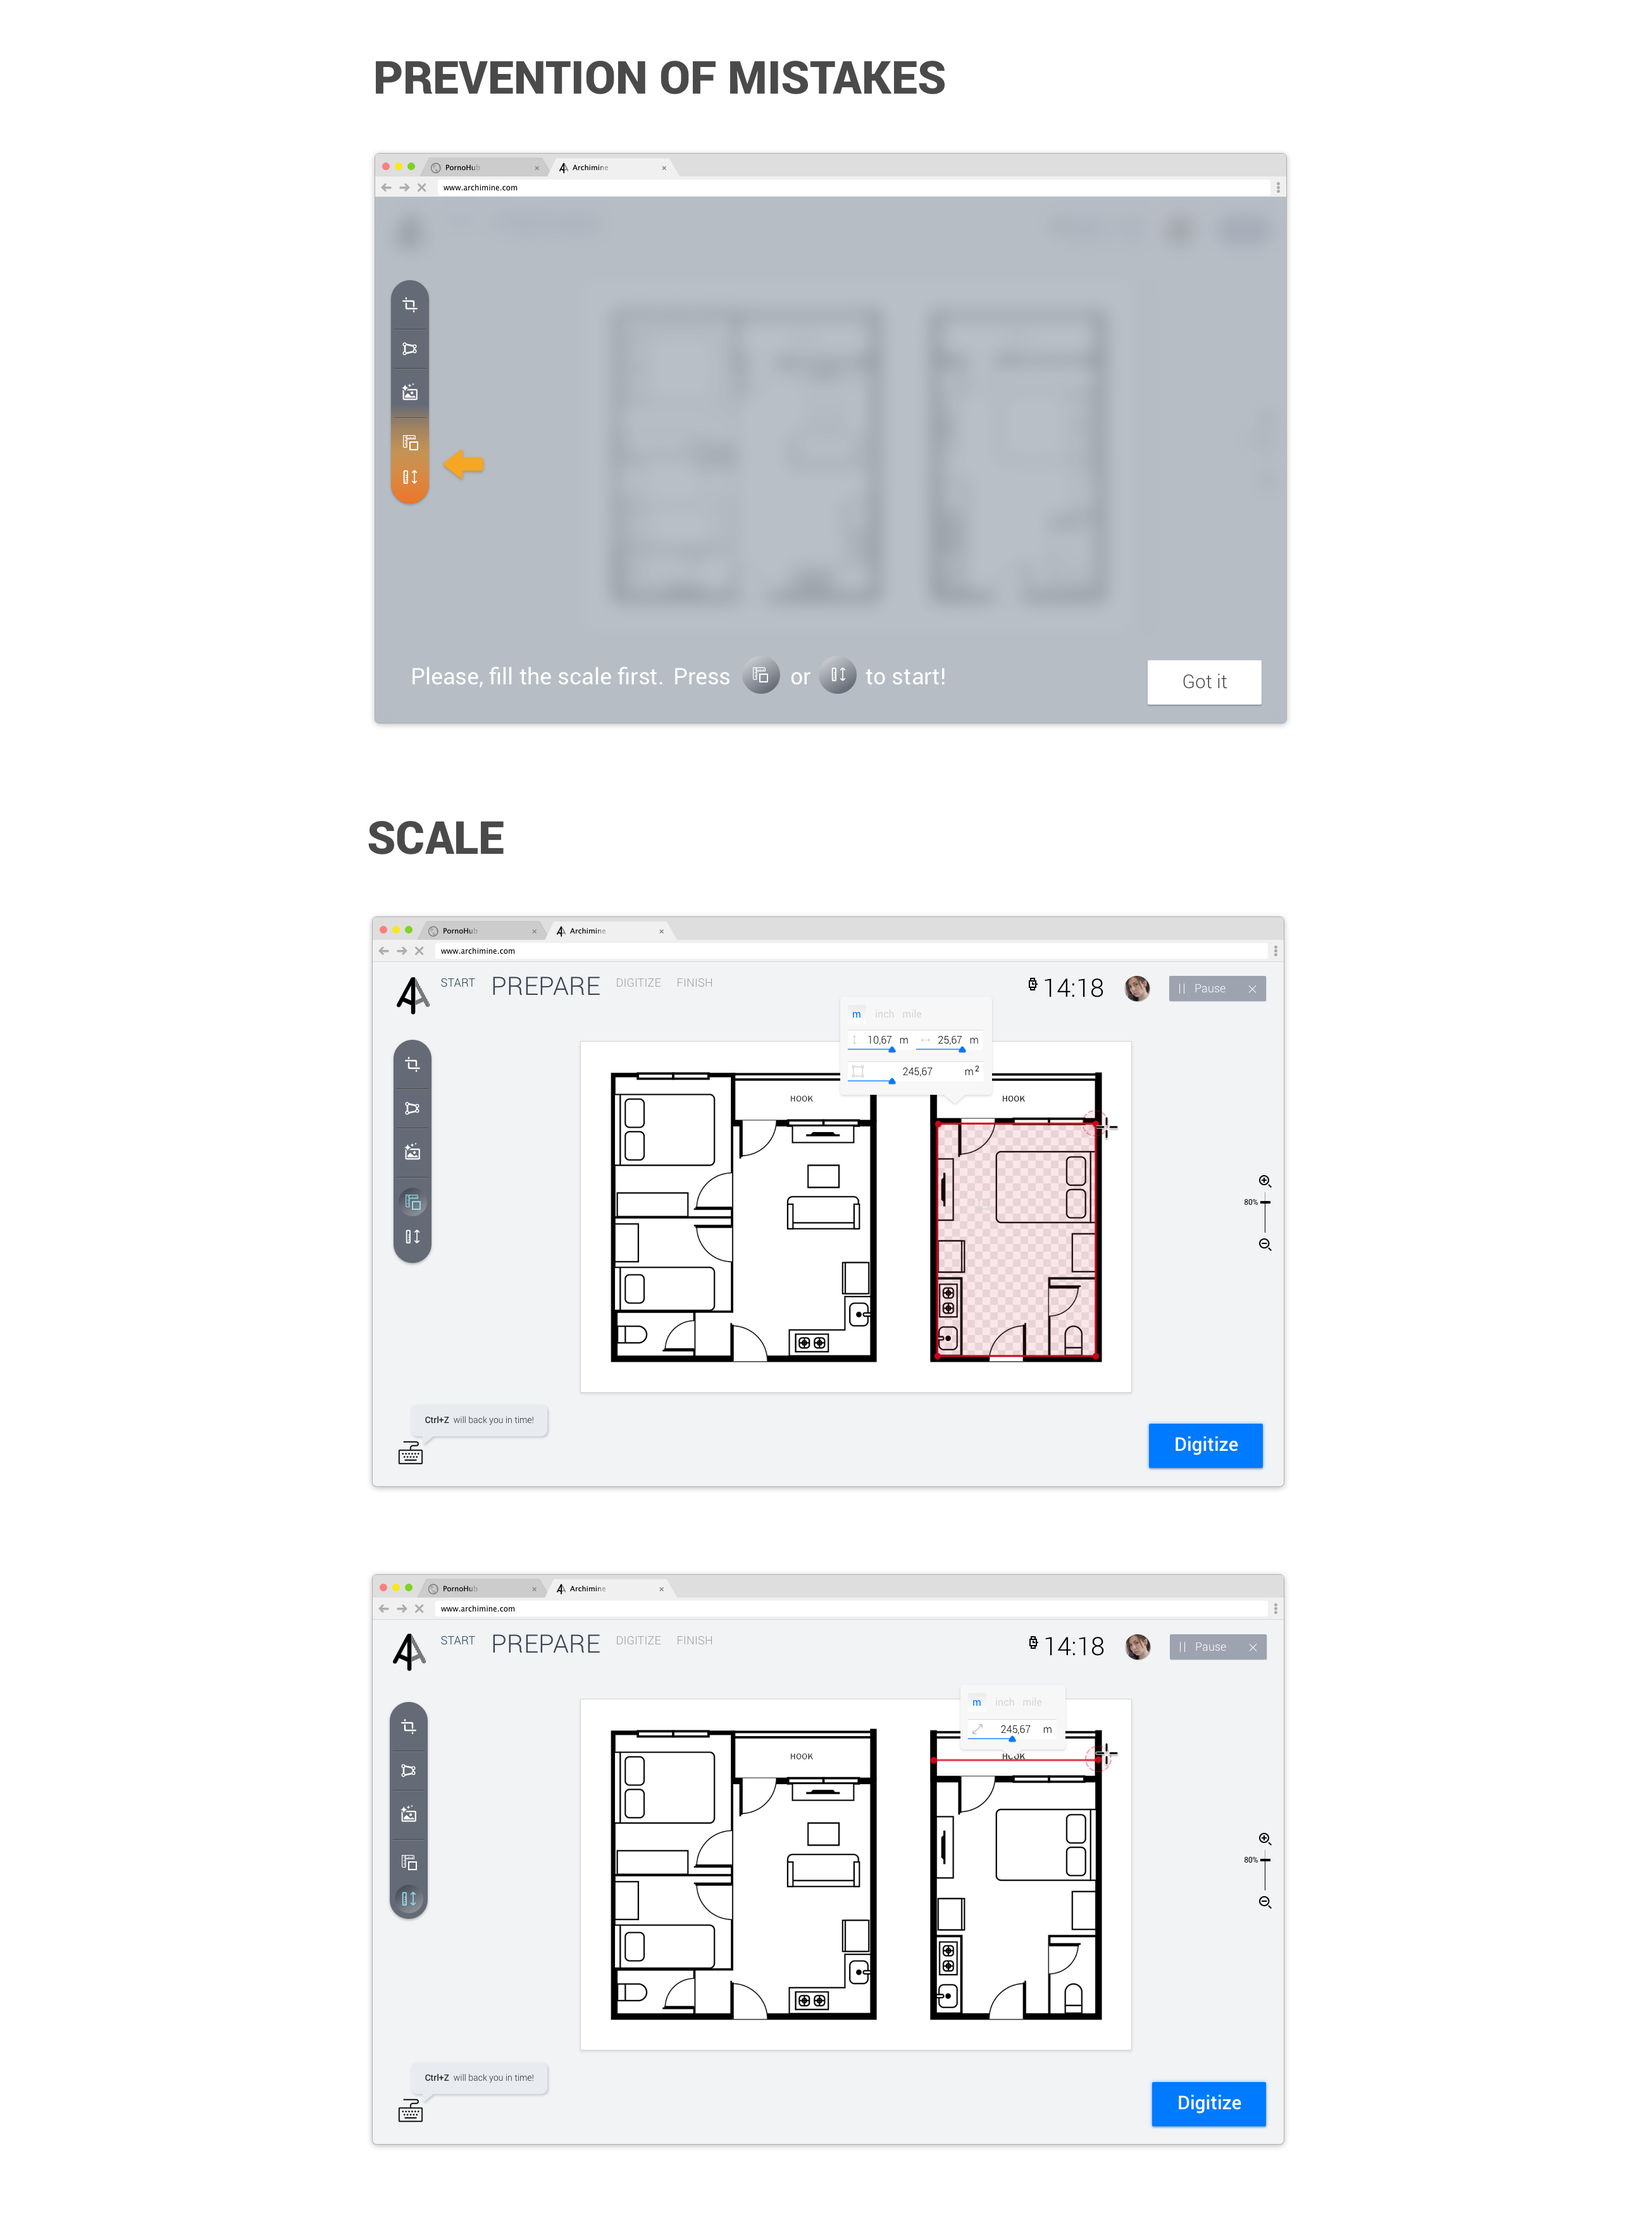
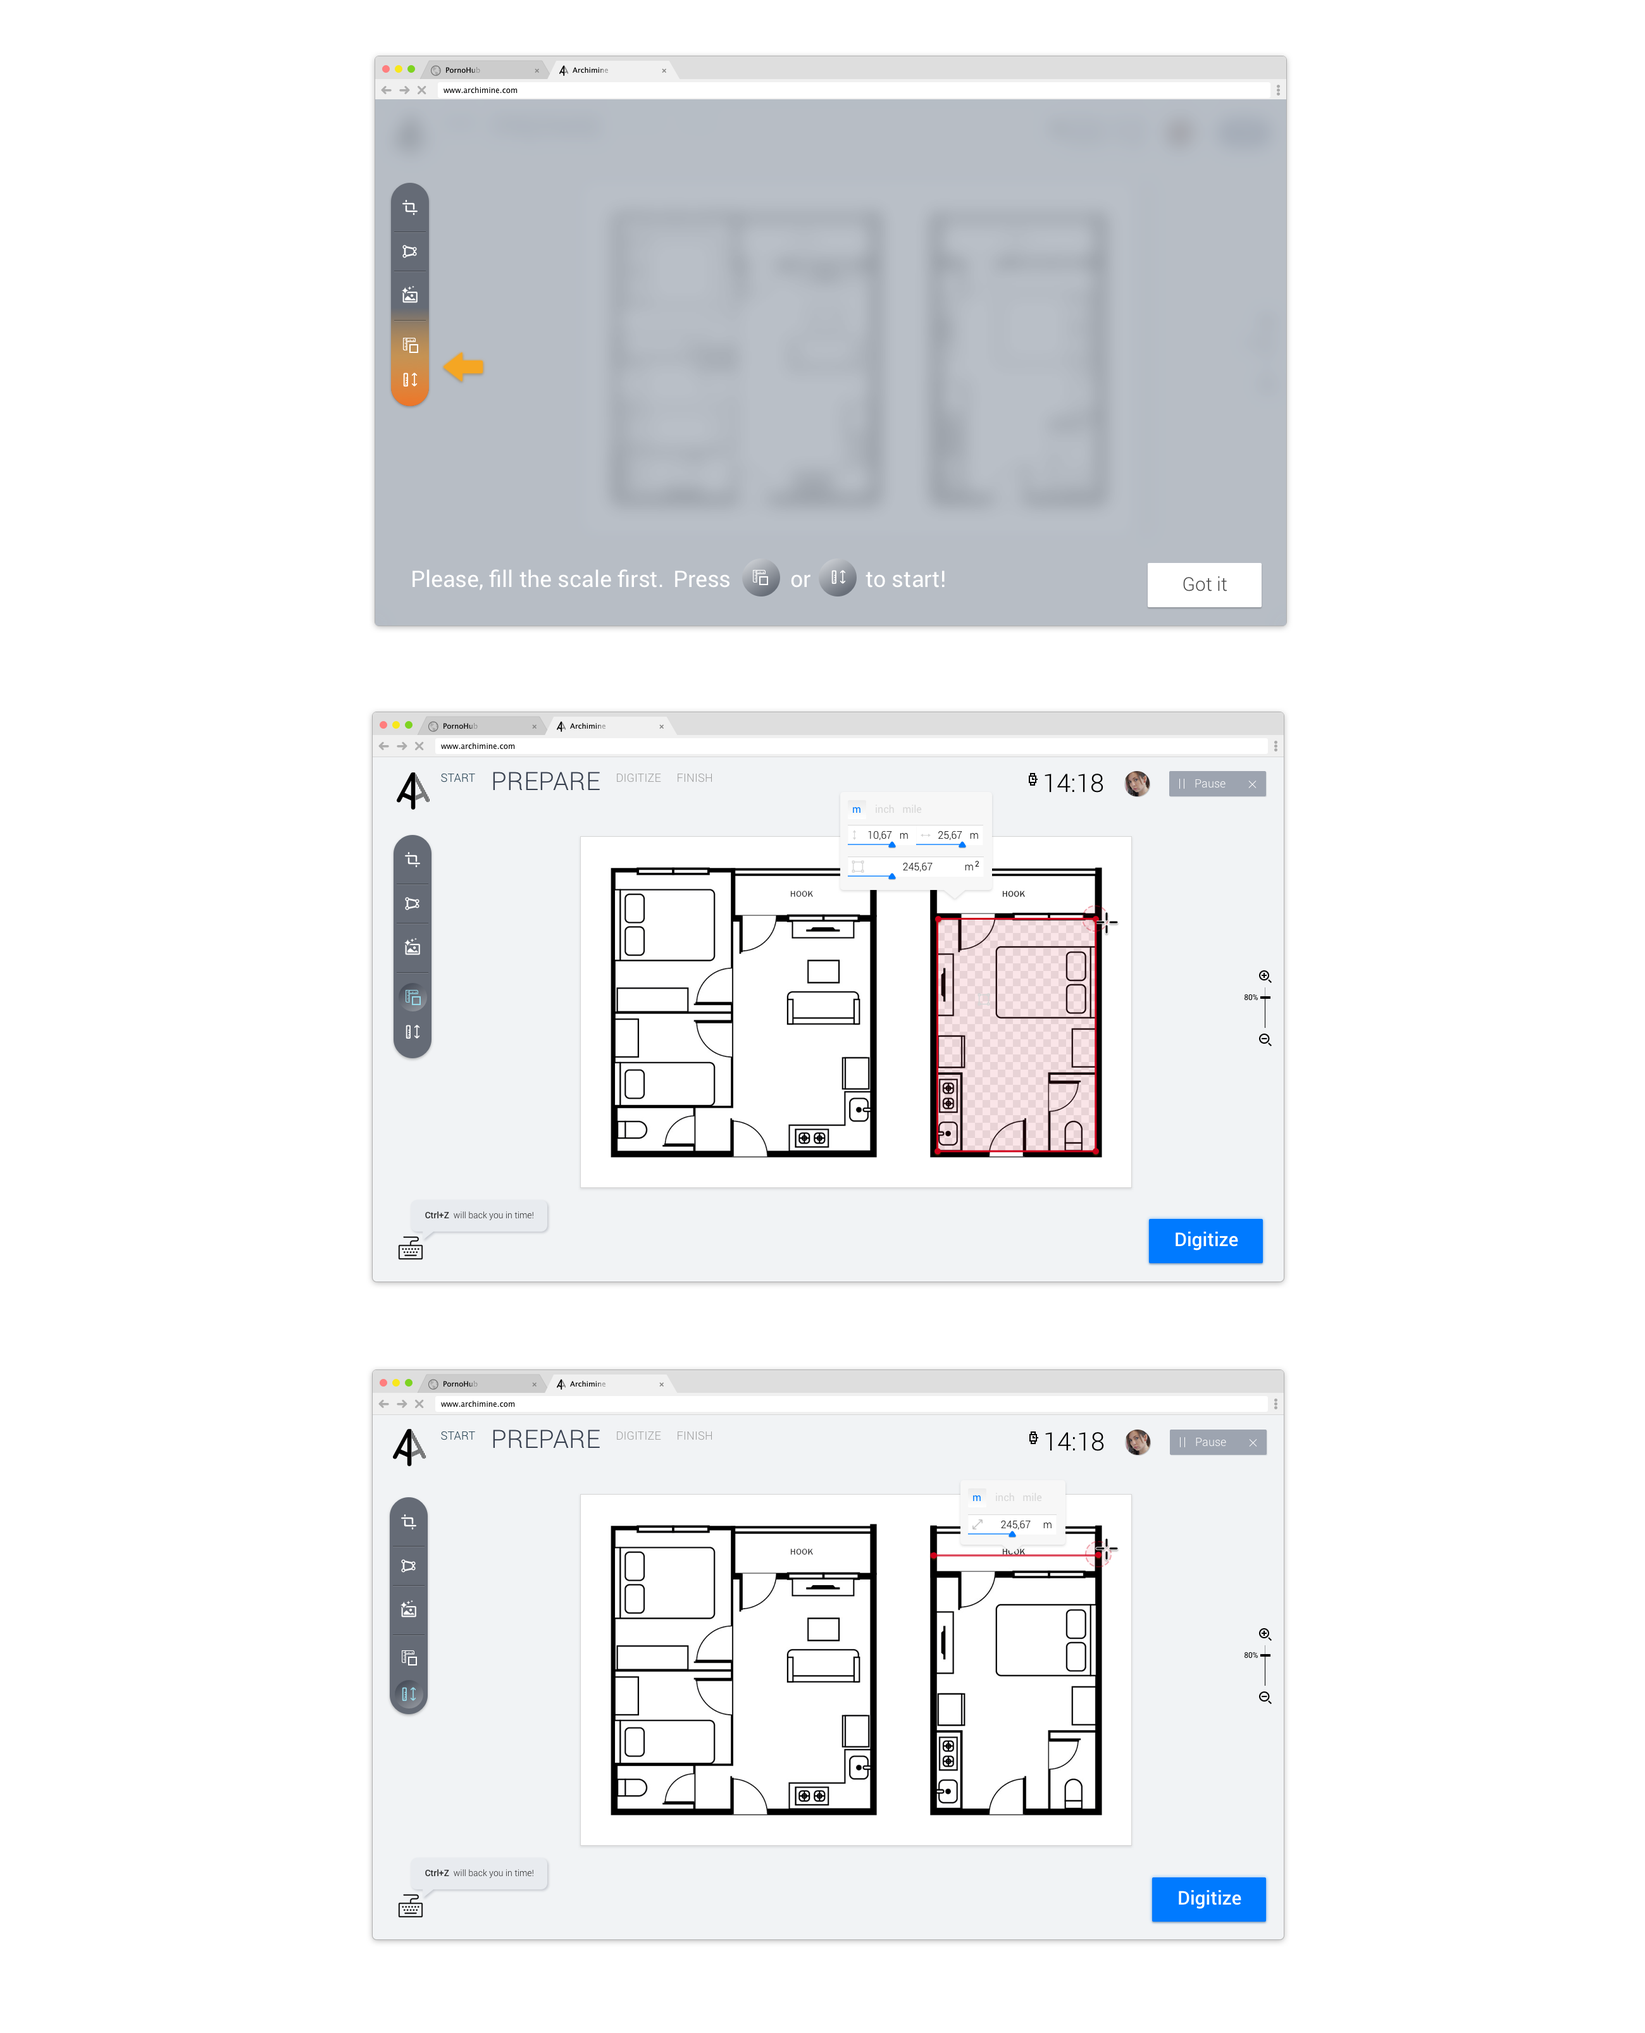
1323

diff --git a/flpl.html b/flpl.html
@@ -105,6 +105,15 @@
 </div>
                 
                   <img class="img-responsive center-block" src="images/flpl_6.png" alt="">
+                  <div class="container" >
+        <div class="row">
+          <div class="col-sm-8 col-sm-offset-2">
+            <h3>Finding the right scale </h3>
+            <p>The system can not predict the correct scale and it has to be set manually. The choice between square and line depends on the data in the floor plan. It is also necessary that user could not proceed to the next step until he finishes this one. </p>
+          </div>
+     </div>
+</div>
+                <img class="img-responsive center-block" src="images/flpl_6.1.png" alt="">
               <div class="container" >
         <div class="row">
           <div class="col-sm-8 col-sm-offset-2">
